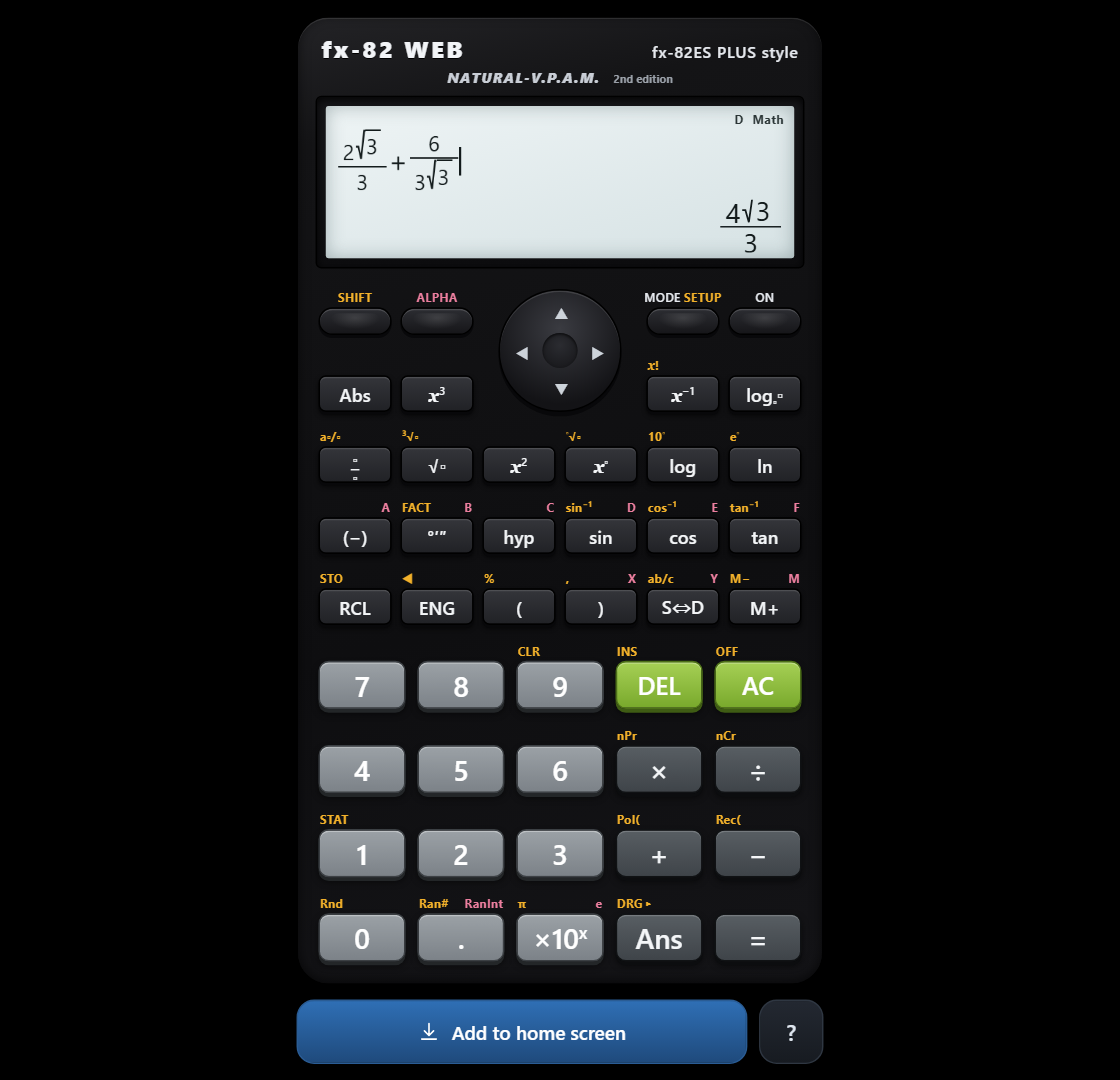
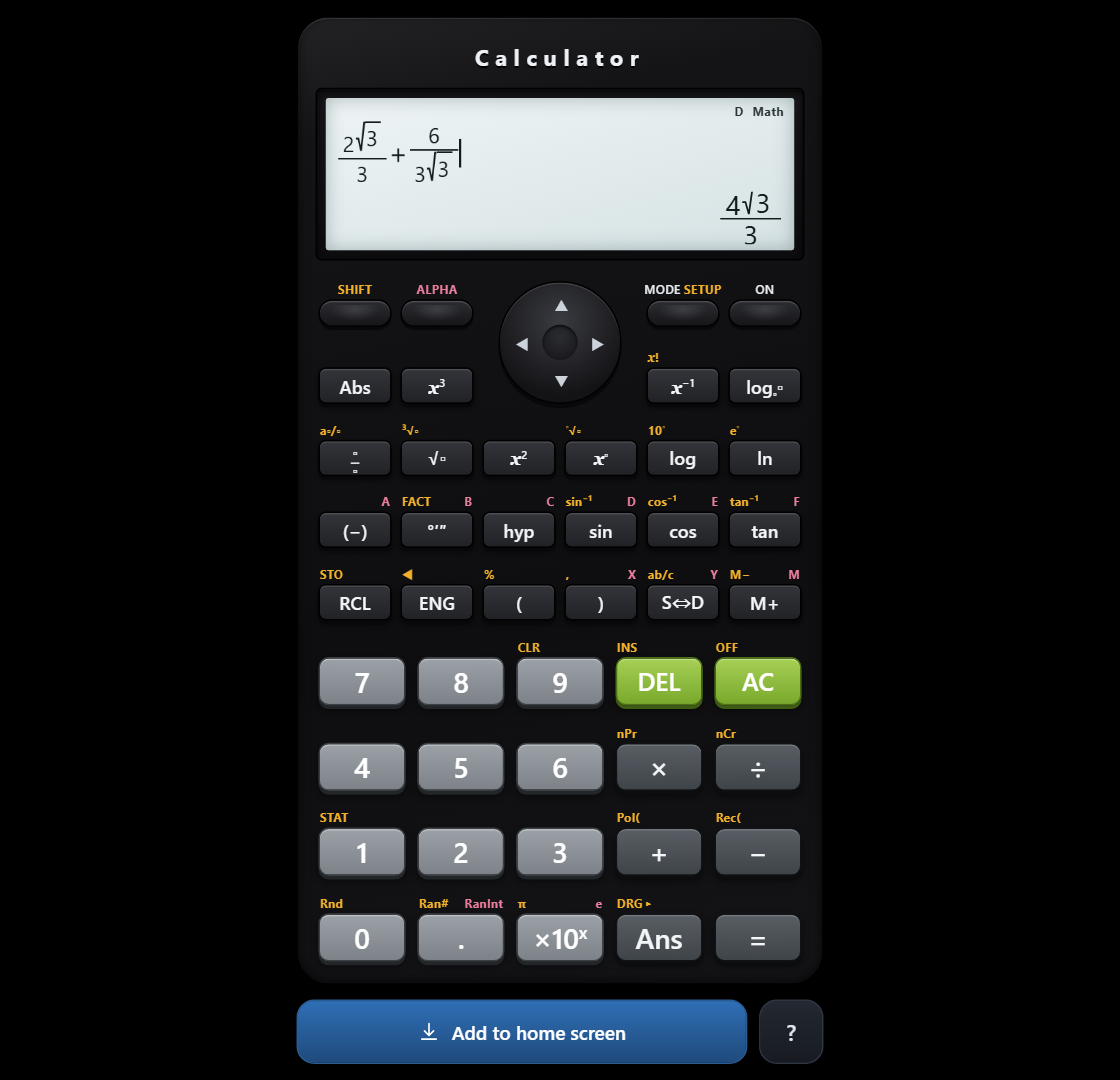
Rename the app to Calculator and drop all brand references
The faceplate, the page title, the manifest, the help panel and the docs no
longer carry a manufacturer's model name or marketing wording. The behaviour
is described on its own terms instead: a natural textbook display, the
priority table scientific calculators use, and exact answers.

Also converts README.md from UTF-16 to UTF-8, which it inherited from the
repository's first commit and which made it diff badly.

diff --git a/index.html b/index.html
@@ -2,19 +2,19 @@
 <html lang="en">
 <head>
 <meta charset="utf-8">
-<title>fx-82 Web Calculator</title>
+<title>Calculator</title>
 <meta name="viewport" content="width=device-width, initial-scale=1, maximum-scale=1, user-scalable=no, viewport-fit=cover">
 <meta name="description" content="Scientific calculator with natural textbook display. Works offline.">
 <meta name="theme-color" content="#0b0b0c">
 <meta name="color-scheme" content="dark">
-<meta http-equiv="Content-Security-Policy" content="default-src 'self'; script-src 'sha256-1T0G3kD8X4McMyY2P999NA+nSOOULBcHwbEloTn7css='; style-src 'sha256-RzUrEUOFSYCdiICKrPD4D3p5DOOsyn0NBAHrRjQtY2w='; img-src 'self'; connect-src 'self'; worker-src 'self'; manifest-src 'self'; base-uri 'none'; form-action 'none'; object-src 'none'; frame-ancestors 'none'">
+<meta http-equiv="Content-Security-Policy" content="default-src 'self'; script-src 'sha256-KyZMTb4uFeouSWP9VmjEgcG6V3ECt/yrk9cpeGX5cDc='; style-src 'sha256-yVdV2Fpjfxl8Vn1634hEoUnaHoqLq1EEClRfWgz1sGU='; img-src 'self'; connect-src 'self'; worker-src 'self'; manifest-src 'self'; base-uri 'none'; form-action 'none'; object-src 'none'; frame-ancestors 'none'">
 <link rel="manifest" href="./manifest.webmanifest">
 <link rel="icon" href="./icons/icon-192.png" sizes="192x192" type="image/png">
 <link rel="apple-touch-icon" href="./icons/icon-180.png">
 <meta name="mobile-web-app-capable" content="yes">
 <meta name="apple-mobile-web-app-capable" content="yes">
 <meta name="apple-mobile-web-app-status-bar-style" content="black">
-<meta name="apple-mobile-web-app-title" content="fx-82">
+<meta name="apple-mobile-web-app-title" content="Calculator">
 <style>
 *{box-sizing:border-box;-webkit-tap-highlight-color:transparent}
 html,body{margin:0;height:100%;overflow:hidden;background:#000;color:#e9edf2;
@@ -34,13 +34,8 @@ body.standalone .calc{border-radius:0;box-shadow:inset 0 1px 0 rgba(255,255,255,
     inset 0 -2px 8px rgba(0,0,0,.6);
   display:flex;flex-direction:column}
 
-.top{padding:0 4px 8px;line-height:1}
-.brandrow{display:flex;align-items:baseline;justify-content:space-between}
-.brand{font-size:16px;font-weight:800;letter-spacing:.1em;color:#f2f4f7;text-shadow:0 1px 0 #000}
-.model{font-size:11px;font-weight:600;letter-spacing:.04em;color:#e6e9ee}
-.vpam{margin-top:7px;display:flex;align-items:baseline;justify-content:center;gap:9px}
-.vpam i{font-size:9.5px;font-style:italic;font-weight:800;letter-spacing:.09em;color:#c9ced6}
-.vpam b{font-size:7.5px;font-weight:700;color:#9aa0a8}
+.top{padding:6px 4px 13px;line-height:1;text-align:center}
+.brand{font-size:15px;font-weight:700;letter-spacing:.3em;color:#eef1f6;text-shadow:0 1px 0 #000}
 
 /* ---------------- LCD ---------------- */
 .bezel{border-radius:4px;padding:6px;background:linear-gradient(#17171a,#0d0d0f);
@@ -186,13 +181,7 @@ sub.bs{font-size:.6em;vertical-align:sub;line-height:0;padding:0 .03em}
 <body>
 <div id="stage">
   <div class="calc">
-    <div class="top">
-      <div class="brandrow">
-        <span class="brand">fx-82 WEB</span>
-        <span class="model">fx-82ES PLUS style</span>
-      </div>
-      <div class="vpam"><i>NATURAL-V.P.A.M.</i><b>2nd edition</b></div>
-    </div>
+    <div class="top"><span class="brand">Calculator</span></div>
 
     <div class="bezel">
       <div class="lcd" id="lcd">
@@ -220,10 +209,11 @@ sub.bs{font-size:.6em;vertical-align:sub;line-height:0;padding:0 .03em}
 <script>
 "use strict";
 /* ======================================================================
-   fx-82 WEB
-   A browser reproduction of a Casio fx-82ES PLUS (2nd edition):
-   natural textbook display, the same operator precedence table, the same
-   S<=>D exact/decimal answers, the same SETUP and MODE menus.
+   Calculator
+   A scientific calculator with a natural textbook display. The expression
+   on screen is a tree rather than a string, the parser follows the priority
+   table classic scientific calculators use, and answers come back exact
+   (fractions, surds, multiples of pi) wherever they can.
    Everything lives in this one file so the app can be cached offline.
    ====================================================================== */
 
@@ -634,7 +624,7 @@ function applyFn(name, args) {
 
 /* ======================================================================
    6. PARSER / EVALUATOR
-   Priority, straight off the fx-82ES PLUS manual's table:
+   Priority, as a scientific calculator's manual sets it out:
      1 functions with brackets          sin(, log(, Abs(
      2 postfix functions                x!, %, d m s
      3 powers and roots                 x^, x2, x3, x-1, nth root
@@ -815,7 +805,7 @@ function evaluate(nodes) {
 }
 
 /* ======================================================================
-   7. TURNING A NUMBER BACK INTO A CASIO-LOOKING ANSWER
+   7. TURNING A NUMBER BACK INTO AN ANSWER THE DISPLAY CAN SHOW
    ====================================================================== */
 function stripZeros(s) {
   if (s.indexOf('.') < 0) return s;
@@ -2151,9 +2141,9 @@ function onInstallClick() {
 
 function helpSheetHtml() {
   function row(a, b) { return '<tr><td>' + a + '</td><td>' + b + '</td></tr>'; }
-  return '<h2>fx-82 WEB</h2>' +
-    '<p>A browser copy of a Casio fx-82ES PLUS (2nd edition): natural display, the same ' +
-    'priority table, the same exact answers.</p>' +
+  return '<h2>Calculator</h2>' +
+    '<p>A scientific calculator with a natural textbook display: fractions and roots are ' +
+    'drawn the way they are written, and answers come back exact where they can.</p>' +
     '<h3>Entering</h3><table class="tbl">' +
     row('SHIFT then a key', 'the yellow label above it') +
     row('ALPHA then a key', 'the pink label (variables A–F, X, Y, M)') +

diff --git a/sw.js b/sw.js
@@ -1,9 +1,9 @@
-/* Offline support for the fx-82 web calculator.
+/* Offline support for the calculator.
    Everything the app needs is precached on install, so once the page has been
    opened one time it starts with no network at all. Responses are served from
    the cache first and refreshed in the background, so a new deploy is picked
    up the next time the app is launched. */
-const CACHE = 'fx82-v1';
+const CACHE = 'calculator-v1';
 const ASSETS = [
   './',
   './index.html',
